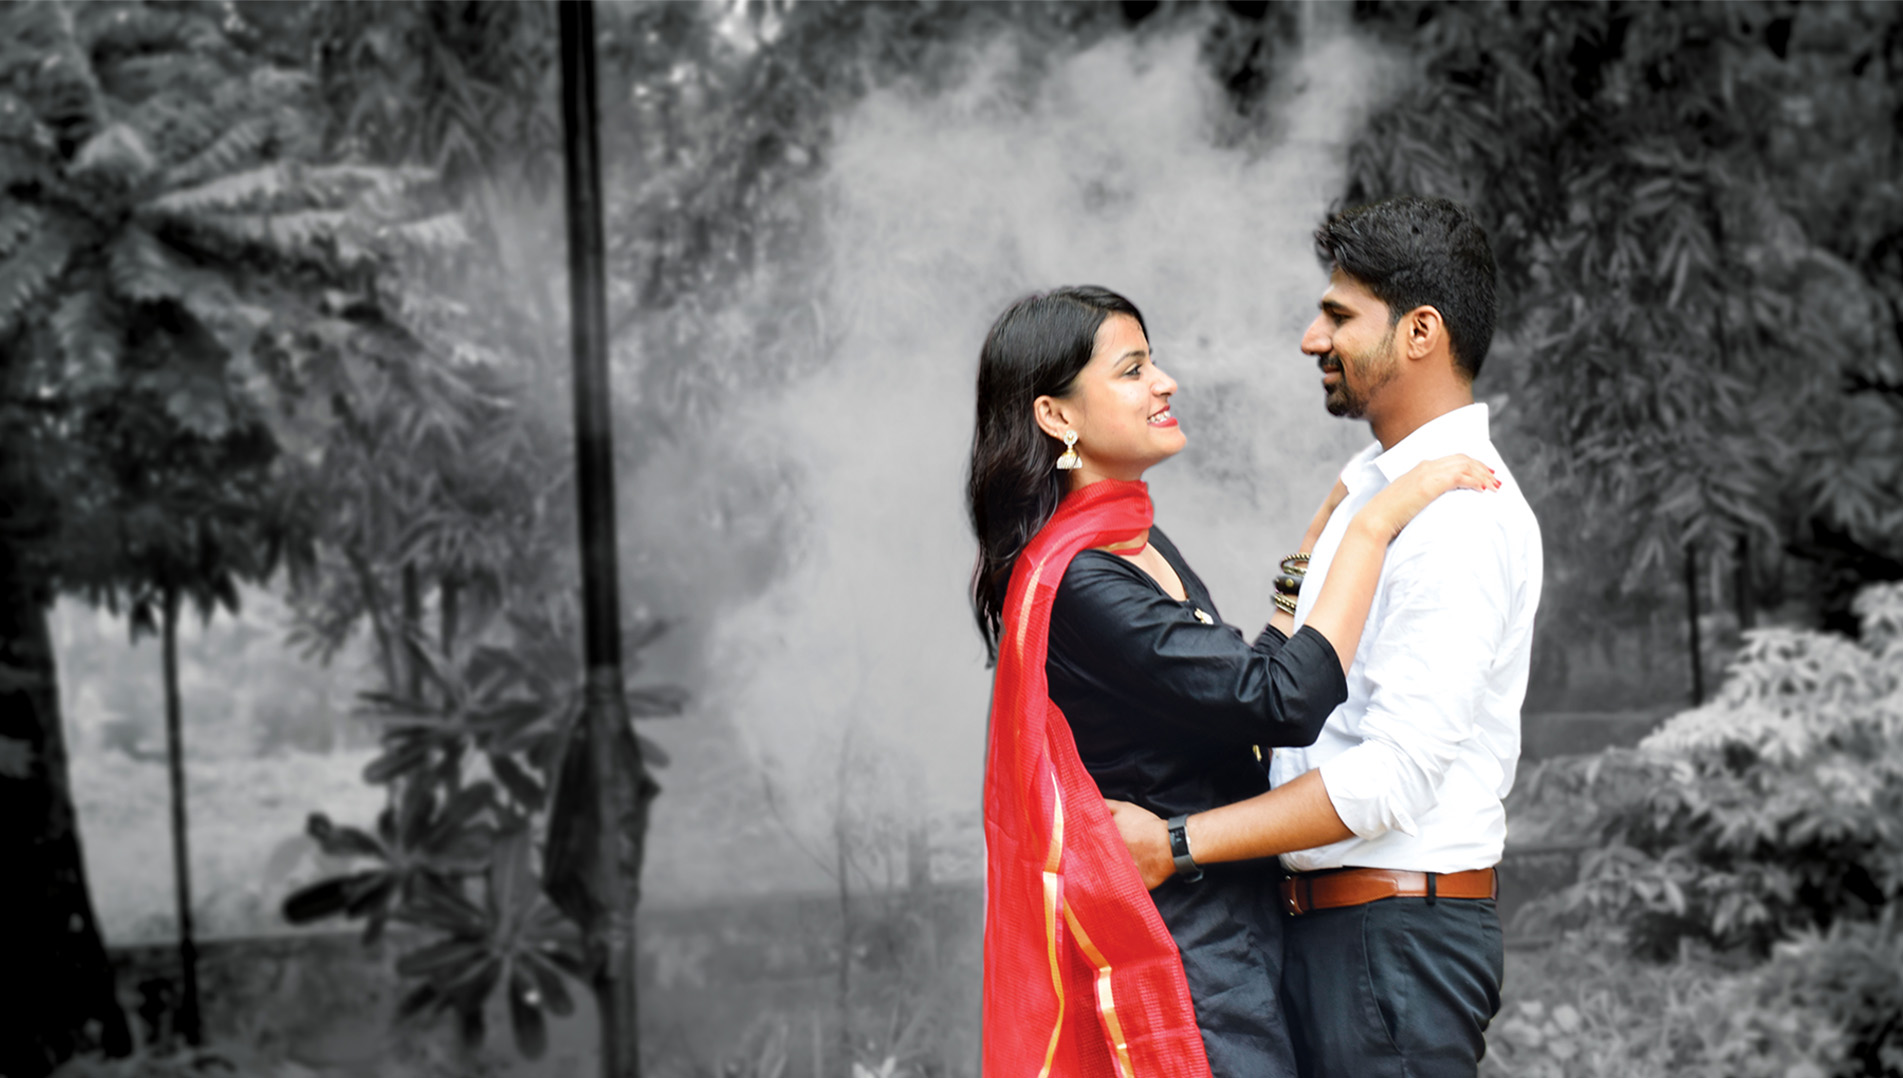
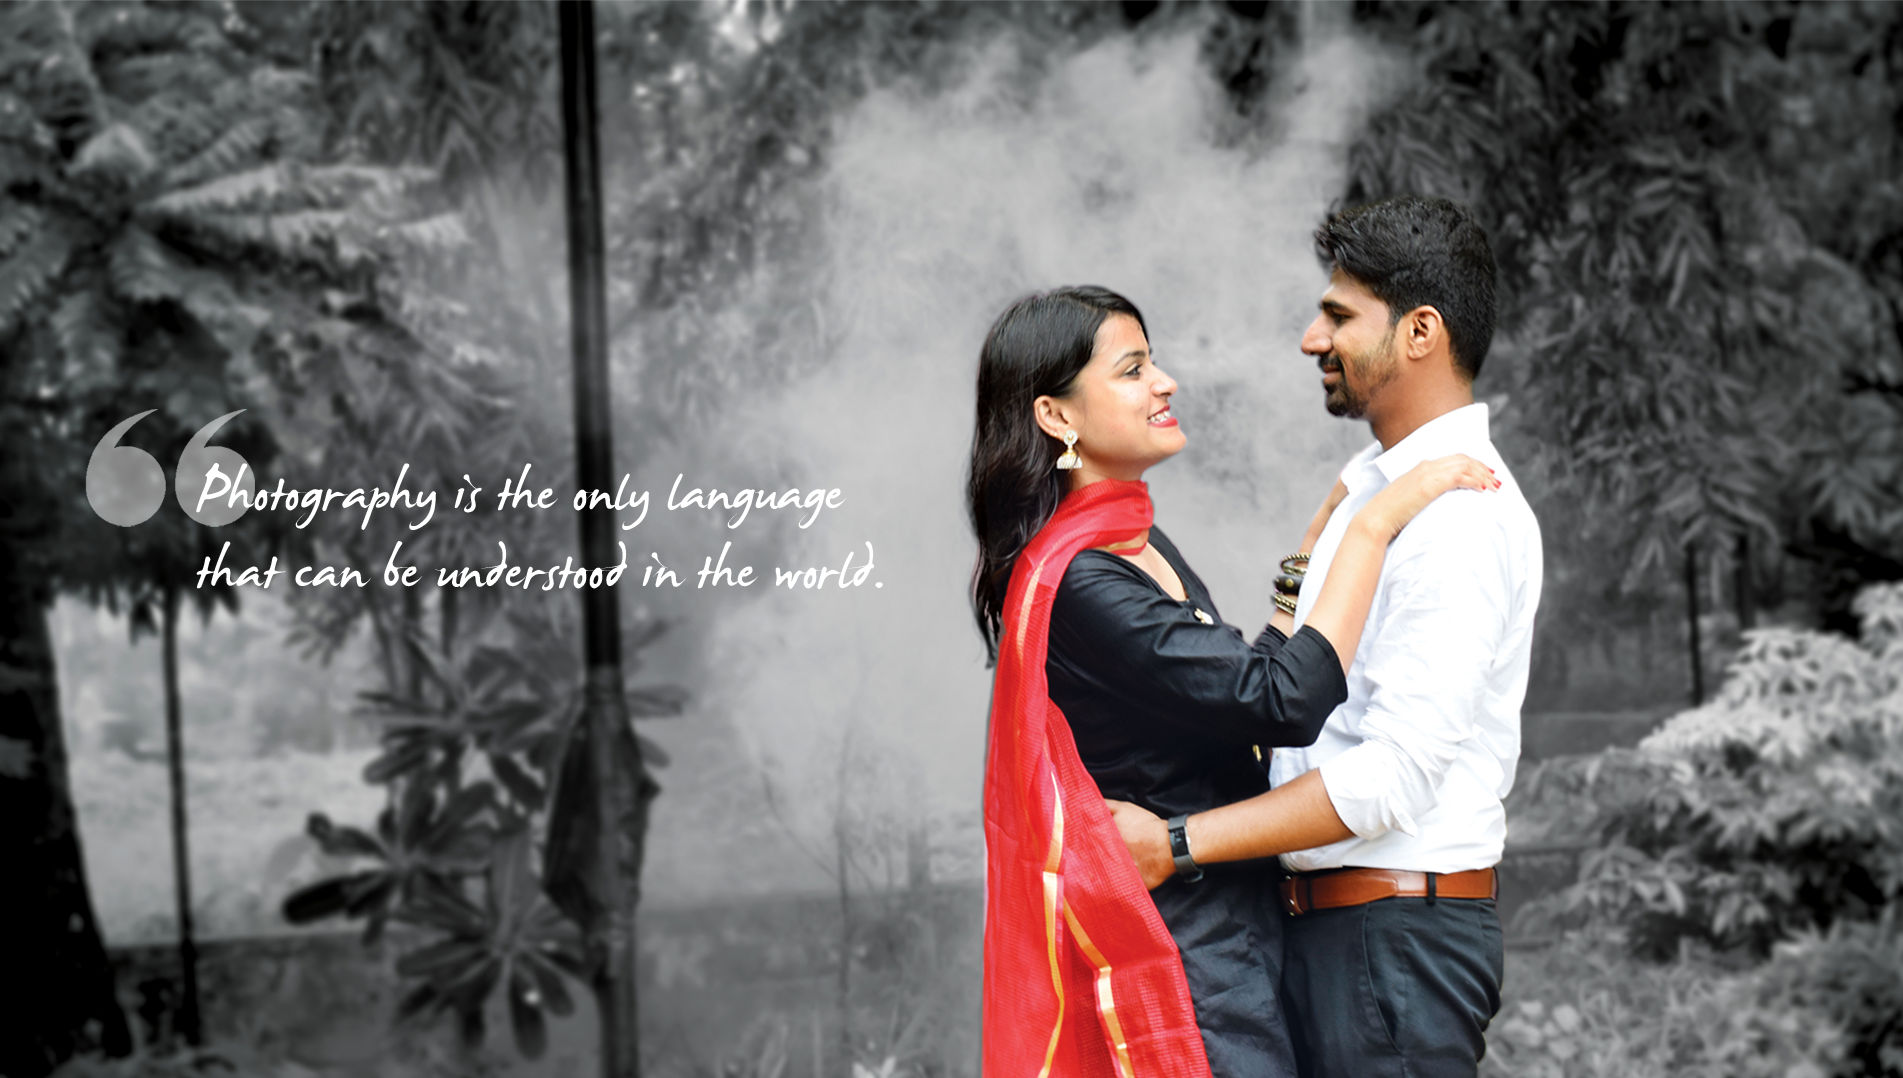
dc

Changed region(s): [[0.031, 0.3673, 0.4341, 0.4898], [0.093, 0.5204, 0.4651, 0.551]]

diff --git a/dc/index.html b/dc/index.html
@@ -61,54 +61,63 @@
 
 
 <!-- slider start -->
-<div class="slider" id="slider" >
-    <div class="slItems">
-      <div class="slItem" style="background-image: url('image/slider/1.jpg');">
-        <div class="slText slText_1">
-        <img src="image/colon.png" class="colon" >
-          <span class="text_in">Photography is the only language that can be understood in the world.</span>
-        </div>
-      </div>
-      <div class="slItem" style="background-image: url('image/slider/2.jpg');">
-        <div class="slText slText_2">
-        <img src="image/colon.png" class="colon">
-          <span class="text_in">We dont need wings to fly, just take my hand.</span> 
-        </div>
-      </div>
-      <div class="slItem" style="background-image: url('image/slider/3.jpg');">
-        <div class="slText slText_3">
-        <img src="image/colon.png" class="colon">
-          <span class="text_in">I am happiest<br> when I am right next to you.</span>
-        </div>
-      </div>
-      <div class="slItem" style="background-image: url('image/slider/4.jpg');">
-        <div class="slText">
-        <img src="image/colon.png" class="colon">
-          <span class="text_in">Two people in the love, alone,<br> isolated from the world, thats beautiful.</span> 
-        </div>
-      </div>
-      <div class="slItem" style="background-image: url('image/slider/5.jpg');">
-        <div class="slText slText_5">
-        <img src="image/colon.png" class="colon">
-          <span class="text_in">Let me love you a little more,<br> before you're not little anymore.</span> 
-        </div>
-      </div>
-      <div class="slItem" style="background-image: url('image/slider/6.jpg');">
-        <div class="slText slText_6">
-        <img src="image/colon.png" class="colon">
-          <span class="text_in">After women, flowers are the most lovely thing god has given the world.</span> 
-        </div>
-      </div>
+
+<div id="myCarousel" class="carousel slide sm-padding-top-carousel" data-ride="carousel" data-interval="7000">
+  <!-- Indicators -->
+  <ol class="carousel-indicators">
+    <li data-target="#myCarousel" data-slide-to="0" class="active"></li>
+    <li data-target="#myCarousel" data-slide-to="1"></li>
+    <li data-target="#myCarousel" data-slide-to="2"></li>
+    <li data-target="#myCarousel" data-slide-to="3"></li>
+    <li data-target="#myCarousel" data-slide-to="4"></li>
+    <li data-target="#myCarousel" data-slide-to="5"></li>
+  </ol>
+
+  <!-- Wrapper for slides -->
+  <div class="carousel-inner">
+    <div class="item active">
+      <img src="image/slider/1.jpg" class="img-responsive" style="min-width: 100%" alt="1">
+    </div>
+
+    <div class="item">
+      <img src="image/slider/2.jpg" class="img-responsive" style="min-width: 100%" alt="2">
+    </div>
+
+    <div class="item">
+      <img src="image/slider/3.jpg" class="img-responsive" style="min-width: 100%" alt="3">
+    </div>
+
+    <div class="item">
+      <img src="image/slider/4.jpg" class="img-responsive" style="min-width: 100%" alt="4">
+    </div>
+
+    <div class="item">
+      <img src="image/slider/5.jpg" class="img-responsive" style="min-width: 100%" alt="5">
+    </div>
+
+    <div class="item">
+      <img src="image/slider/6.jpg" class="img-responsive" style="min-width: 100%" alt="6">
     </div>
   </div>
+
+  <!-- Left and right controls -->
+  <a class="left carousel-control" href="#myCarousel" data-slide="prev">
+    <span class="glyphicon"><img src="image/arrow/left-arrow.png"></span>
+    <span class="sr-only">Previous</span>
+  </a>
+  <a class="right carousel-control" href="#myCarousel" data-slide="next">
+    <span class="glyphicon"><img src="image/arrow/right-arrow.png"></span>
+    <span class="sr-only">Next</span>
+  </a>
+</div>
 <!-- slider end -->	
 
 <!-- about start -->
 <section id="about-us">
   
     
-      <div class="col-md-12 no-padding back_lg"  style="">
-        <div class="col-md-2 col-lg-1" style="min-width: 16%;padding:0px;margin:0px;"><img src="image/name-aboutus-camera.png" class="img-responsive" style=""></div>
+      <div class="col-md-12 no-padding back_lg" style="z-index: 5000;background-color: #fff;">
+        <div class="col-md-2 col-lg-1" style="min-width: 16%;padding:0px;margin:0px;"><img src="image/name-aboutus-camera.jpg" class="img-responsive" style=""></div>
         <div class="col-md-4 col-lg-4"><p class="para para-s" style="padding-left: 20px;">As an imaginative and pasionate photographer with 7+ year tract of successful photography, be it nature or candid here i am... introducing myself as <b>Haresh patil</b> and my dream venture crafted by mahself and thus named as <b>'Dream Crafter'</b>.<br><span style="display: inline-block;height: 30px;"></span>Not much to say about me but people know me as <b>Harry</b> and here's my quick story so far. A little over nine years ago in 2008, i was gifted a camera by my big bro when i was pursuing my 3<sup>rd</sup> year Diploma in Commercial Arts from <b>L. S. Raheja school of Arts, Mumbai</b>. And there was this photographer born in me came out clicking moments. i have this habbit of capturing moments and convert them into beautiful memories. it startrd since then and the love of cliclking increased day by day. Very soon i realised i have found something which i always wanted to do.. May be yes.. I was born to click! Though i was trained to be a Commercial Artist. i have 7+ year of experience in Advertising too but what i do now is tell stories. Even though there was ups and downs in my life till date, i never leave my cameras aside. Being fond of roaming, Bike riding.. known as decent rider and trekking. My hobby of photography then took a turn towards passion. Today i have almost all my collection in store for where ever i have been. The collection includes the glimpses of Leh Ladakh to Goa beaches or may it be any single weekend trek. My only intention was to take better photos. I quickly realized how much i loved having a camera in my hands.</p>
         </div>
         <div class="col-md-4 col-lg-4"><p class="para">My passion get recorgnition and hence could display my photos in many reputed exhibitions and that's when i sought of got a tag of being a photographer. Further started with few assignments which were not literally forced, but yes i could complete many of my friends prewed shoots on demend and never knew it would develop that creative sign of mine.<br><span style="display: inline-block;height: 30px;"></span>From being candid photography to capturing the beautiful world that nature has given to man, i have done it all. Understanding that a photographer now a days needs to have a technical hold on things, I am comfortable operating photography equipments and related softwares that are used to process quality photographs. Owing to my passion, I work continuously to learn new thigs in order to make my work professional. Dreams do come true if u really go for it! <b>Dream crafter</b> is one of them... to cherish and live those memories what will never fade off.<br><span style="display: inline-block;height: 30px;"></span>I would love that facts that i was able to be creative and make beautiful images that people loved sharing with their families and friends. I am skilled at estimating costs and development a budget with clients. Clients have praised me for my ability to photograph efficiency and effectively while maintaining poise and enthusiasm. I bring this skills and professional demeanor to every photo shoot.<br><b>So what are you waiting for let's get click! Ready?</b></p></div>
@@ -122,7 +131,7 @@
  <section >
 
 
-                <div id="portfolio" class="text-center col-md-12 port-color-dark padding-30 portfolio-h">
+                <div id="portfolio" class="text-center col-md-12 port-color-dark padding-30 portfolio-h" style="    z-index: 5000;">
                     
                               <h2 style="margin-top:0px">PORTFOLIO</h2>
                               <img style="margin-top: -3px;" src="image/black-shape.png">
@@ -272,7 +281,7 @@
 
 
 <!-- testimonials start -->
-<div id="myCarousel" class="carousel slide " data-ride="carousel">
+<div id="myCarousel1" class="carousel slide " data-ride="carousel" data-interval="7000">
 <div class="hidden-xs hidden-sm" id="testimonial4" style="position: absolute;color: #fff;top:0px;left:0px;z-index: 3255;min-width: 100%"><div class="testimonial4_header testimonial-h">
       <h6 style="color:#9E9E9E;margin-bottom: 0px;">WHAT OUR</h6>
       <h2 style="color:#FFF;margin: 0px 10px;">CLIENTS SAY ABOUT US</h2>
@@ -286,55 +295,43 @@
       
     </div>
       <img class="back_img" src="image/test/1.jpg" alt="client1">
-      <div class="testimonial4_slide test" style="position: absolute;bottom:45px;top:auto;left:auto;right:0px;width:50%"><img src="image/colon.png" class=" img-responsive" />
-          <p>The photos are amazing!! Definitely exceeded our expectations!!<br> Thankyou so much for capturing our special moments.</p>
-          <img class="img-responsive" src="image/name/pallavi_mangesh_1.png" style="width:290px;height:auto;" /></div>
+      
     </div>
 
     <div class="item">
       <img class="back_img" src="image/test/2.jpg" alt="client2">
-      <div class="testimonial4_slide test" style="position: absolute;bottom:45px;top:auto;left:0px;right:0px;width:34%"><img src="image/colon.png" class=" img-responsive" />
-          <p>Thank you so much for the amazing job that you did for us. You are creative, you certainly captured the moment - and you took some wonderful candid shots. the total experience was equally amazing! Wow! A million thanks to you's. We will recomend you highly!</p>
-          <img class="img-responsive" src="image/name/sachin_aparna_2_4.png" style="width:290px;height:auto;" /></div>
+      
     </div>
 
     <div class="item">
       <img class="back_img" src="image/test/3.jpg" alt="New York">
-      <div class="testimonial4_slide test" style="position: absolute;bottom:45px;top:auto;left:auto;right:10%;width:35%"><img src="image/colon.png" class=" img-responsive" />
-          <p>Your Photos are STUNNING! Thank you so, so Much. They are all just spectacular and a gift we will treasure always. We are really greatful. You are just amazing, talented photographer Harry. We can't thank you enopugh for sharing your craft with us. Thank you!</p>
-          <img class="img-responsive" src="image/name/ruchita_prasad_3.png" style="width:290px;height:auto;" /></div>
+      
     </div>
 
     <div class="item">
       <img class="back_img" src="image/test/4.jpg" alt="New York">
-      <div class="testimonial4_slide test" style="position: absolute;bottom:45px;top:auto;left: 230px;right: auto;width:34%"><img src="image/colon.png" class=" img-responsive" />
-          <p>Thank you so much for the amazing job that you did for us. You are creative, you certainly captured the moment - and you took some wonderful candid shots.the total experience was equally amazing! Wow! A million tahnks to you's. We will recomend you highly!</p>
-          <img class="img-responsive" src="image/name/prasad_amruta.png" style="width:290px;height:auto;" /></div>
+      
     </div>
 
     <div class="item">
       <img class="back_img" src="image/test/5.jpg" alt="New York">
-      <div class="testimonial4_slide test" style="position: absolute;bottom:45px;top:auto;left:auto;right:10%;width:39%"><img src="image/colon.png" class=" img-responsive" />
-          <p>We had an amazing experience with Dreams crafter. Harry was terrific with my little dotter Ritvika and she were so comfortable around him!<br>The pictures came out great. He truly knows how to capture the best of his focus! I am very pleased and when friends & family members ask about pictures i brag about my brilliant photographer from Dreams Crafter.</p>
-          <img class="img-responsive" src="image/name/priya_rohan_5.png" style="width:290px;height:auto;" /></div>
+      
     </div>
 
     <div class="item">
       <img class="back_img" src="image/test/6.jpg" alt="New York">
-      <div class="testimonial4_slide test" style="position: absolute;bottom: 18px;top:auto;left:auto;left: -2%;width: 35%;"><img src="image/colon.png" class=" img-responsive" />
-          <p>When we decided for a prewed shoot, undoubtedly Dream Crafter was the immediate thought came in our minds! A photographer's job is much more than taking just oictures - and he understands this quite well. Absolutely creative, comfortable, friendly and giving his best shoot in whatever hw does. He has an inherent ability to realize and capture compositions to show the world what the human eye can sometimes not see. Thank you for making us feel so spetial and look amazing through your lens. We have those wonderful memories with us forever just because of Dream Crafter. Looking forward to click more buddy!</p>
-          <img class="img-responsive" src="image/name/vishal_shyamal.png" style="width:290px;height:auto;" /></div>
+      
     </div>
 
 
   </div>
 
   <!-- Left and right controls -->
-  <a class="left carousel-control" href="#myCarousel" data-slide="prev">
+  <a class="left carousel-control" href="#myCarousel1" data-slide="prev">
     <span><img src="image/arrow/left-arrow.png"></span>
     <span class="sr-only">Previous</span>
   </a>
-  <a class="right carousel-control" href="#myCarousel" data-slide="next">
+  <a class="right carousel-control" href="#myCarousel1" data-slide="next">
     <span ><img src="image/arrow/right-arrow.png"></span>
     <span class="sr-only">Next</span>
   </a>
@@ -384,7 +381,7 @@
 
 
 <!-- footer start -->
-<section style="padding:40px 0px 20px 0px;margin-top:20px;background-color: #1F1D20;">
+<section style="padding:40px 0px 20px 0px;margin-top:40px;background-color: #1F1D20;">
 <div class="container footer_tile">
 <div class="col-md-12 col-sm-12 col-lg-12 text-center">
 

diff --git a/dc/css/style.css b/dc/css/style.css
@@ -281,6 +281,7 @@ font-size: .8em;
 .carousel {
     margin-bottom: 0;
     padding: 0;
+    background-color: #1f1d20;
 }
 /* The controlsy */
 .carousel-control {
@@ -293,10 +294,10 @@ font-size: .8em;
     font-size: 2em;
 }
 .carousel-control.right {
-  right:50px;
+  right:10px;
 }
 .carousel-control.left {
-  left: 50px;
+  left: 10px;
 }
 
 .port-color-dark{
@@ -333,7 +334,7 @@ font-size: .8em;
   background: #cecece;
 }
 .carousel-indicators .active {
-background: #428bca;
+background: #fff;
 }
 
 
@@ -391,12 +392,12 @@ bottom:140px;
   bottom:60px;
 }
 .ser-up1{
-bottom:100px;
+bottom:200px;
 }
 
 .ser-h4{
   left:20px;
-  font-size:10px!important;
+  font-size:15px!important;
 }
 
 }
@@ -621,6 +622,26 @@ color: #AAA;
     padding: 5px;
   }
 }
+
+.carousel-indicators {
+    position: absolute;
+    bottom: -8px;
+    left: 50%;
+    z-index: 15;
+    width: 70%;
+    padding-left: 0;
+    margin-left: -25%;
+    text-align: right;
+    list-style: none;
+}
+
+@media (min-width: 100px) and (max-width: 768px){
+		.sm-padding-top-carousel{
+		 padding-top:120px;
+
+	}
+}
+
 
 @media (min-width: 768px){
 	.navbar-collapse{
